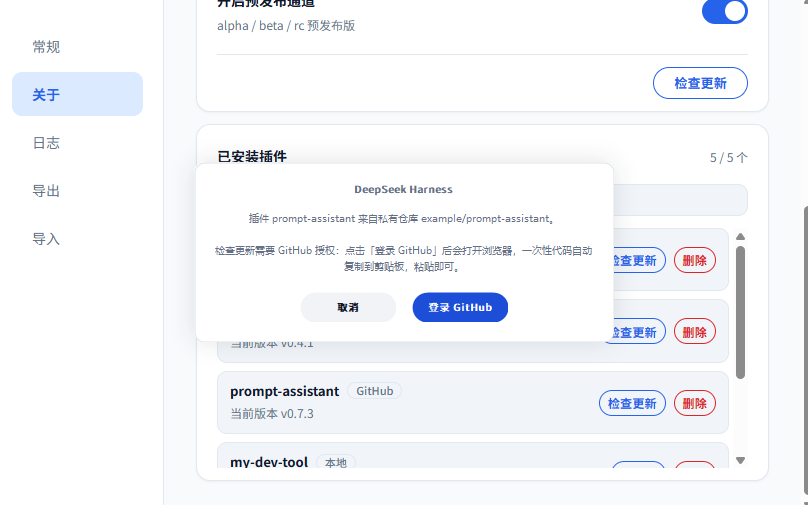
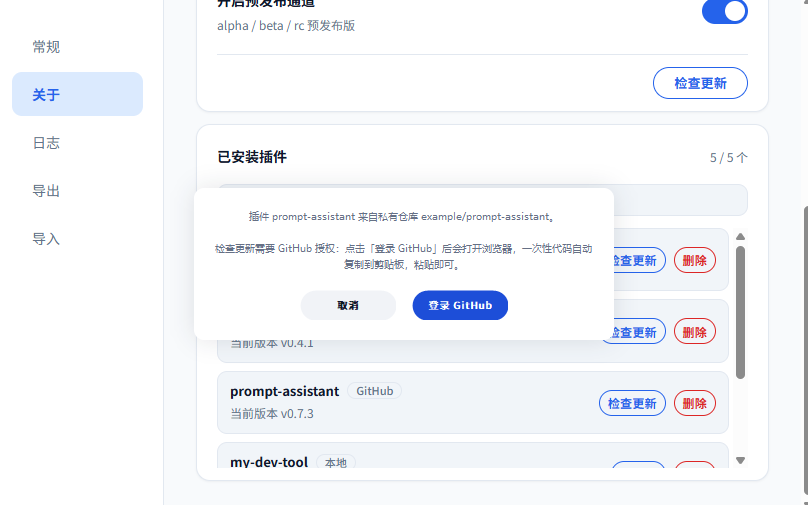
fix(docs/dialog): v0.9.2 重发 —— 应用内弹窗恢复系统标题栏，无边框只用于发版截图
- dialogs_windows.go 回退上一版的 A 方案：弹窗恢复 WS_CAPTION|WS_SYSMENU 原生外观
  （可拖动、可 Alt+F4 关闭），去掉自绘圆角卡片、CS_DROPSHADOW 与 DWM 扩展边框。
- capture_github_dialog.ps1 改为只取弹窗客户区（GetClientRect/ClientToScreen +
  PW_CLIENTONLY|PW_RENDERFULLCONTENT），系统标题栏与边框都不进图，再由
  compose_dialog_shot.py 贴成圆角卡片并绘制柔和阴影 ——「无边框」只存在于网站
  轮播图/README 物料里，应用内弹窗不受影响。
- 移除整窗截图遗留的 Get-BlackInset（客户区抓取后不再需要）。
- 重拍 docs/shots/github-auth.png 与 docs/shots-en/github-auth.png：卡片边缘为纯白
  （无描边），四周柔和阴影；卡片内容 = 弹窗客户区（正文 + 按钮）。
- RELEASE_NOTES 的 v0.9.2 区块同步改写：原「全部原生弹窗无边框化」的表述已不成立。

diff --git a/dialogs_windows.go b/dialogs_windows.go
@@ -31,8 +31,6 @@ const (
 	swShow                     = 5
 	wsCaption                  = 0x00C00000
 	wsSysMenu                  = 0x00080000
-	wsPopup                    = 0x80000000
-	csDropShadow               = 0x00020000
 	wsClipChildren             = 0x02000000
 	wsChild                    = 0x40000000
 	wsVisible                  = 0x10000000
@@ -69,8 +67,6 @@ const (
 	dlgBtnH   = 30
 	dlgBtnW   = 96 // 固定按钮宽度：容纳「登录 GitHub」等较长主操作文案（14px/600 下约 90px）
 	dlgBtnGap = 16
-	dlgTitleH = 20 // 卡片内标题行高度
-	dlgRadius = 10 // 卡片圆角半径（与网站轮播图的合成圆角一致）
 
 	dialogColorMsg   = 0x00857066 // #667085
 	dialogColorTxt   = 0x00281810 // #101828
@@ -124,7 +120,6 @@ var (
 	pGetTextMetrics        = modGdi32.NewProc("GetTextMetricsA")
 	pAddFontResourceExW    = modGdi32.NewProc("AddFontResourceExW")
 	pDwmSetWindowAttribute = modDwmapi.NewProc("DwmSetWindowAttribute")
-	pDwmExtendFrame        = modDwmapi.NewProc("DwmExtendFrameIntoClientArea")
 	// GDI+（抗锯齿绘图）
 	modGdiplus                = syscall.NewLazyDLL("gdiplus.dll")
 	gpStartup                 = modGdiplus.NewProc("GdiplusStartup")
@@ -227,9 +222,6 @@ type rect struct {
 	left, top, right, bottom int32
 }
 
-// margins 供 DwmExtendFrameIntoClientArea 使用（字段顺序与 Win32 MARGINS 一致）。
-type margins struct{ left, right, top, bottom int32 }
-
 type paintStruct struct {
 	hdc         uintptr
 	fErase      int32
@@ -272,7 +264,6 @@ var (
 	dialogGraySelBrush  uintptr
 	dialogMsgFont       uintptr
 	dialogBtnFont       uintptr
-	dialogTitleFont     uintptr
 	dialogBtnWidths     []int32 // 各按钮自适应宽度（createDialogWindow 使用）
 	dialogClassRegister bool
 )
@@ -485,20 +476,6 @@ func dialogWndProc(hwnd, uMsg, wParam, lParam uintptr) uintptr {
 		pSetBkMode.Call(wParam, bkOpaque)
 		h, _, _ := pGetStockObject.Call(whiteBrush)
 		return h
-	case wmPaint:
-		// 无边框卡片：白色圆角卡面 + 1px 浅描边。原标题栏（WS_CAPTION）已去除，
-		// 卡片观感与 README 主图 / 网站轮播图一致（圆角由 DWM 与截图合成共同保证）。
-		var ps paintStruct
-		hdc, _, _ := pBeginPaint.Call(hwnd, uintptr(unsafe.Pointer(&ps)))
-		if hdc != 0 {
-			var rc rect
-			pGetClientRect.Call(hwnd, uintptr(unsafe.Pointer(&rc)))
-			fillRoundedRectAA(hdc, rc, dlgRadius, colorRefToARGB(dialogColorBorder))
-			inner := rect{rc.left + 1, rc.top + 1, rc.right - 1, rc.bottom - 1}
-			fillRoundedRectAA(hdc, inner, dlgRadius-1, colorRefToARGB(colorWhite))
-			pEndPaint.Call(hwnd, uintptr(unsafe.Pointer(&ps)))
-		}
-		return 0
 	case wmDrawItem:
 		if lParam == 0 {
 			break
@@ -563,7 +540,6 @@ func runModernDialog(caption, message string, buttons []string, primary int) int
 	dialogResult = -1
 	dialogMsgFont = makeSystemFont(16, 400)
 	dialogBtnFont = makeFont(14, 600)
-	dialogTitleFont = makeFont(14, 600)
 	// 按钮按文案自适应宽度（下限 dlgBtnW）：固定宽度会把「登录 GitHub」（约 90px）/
 	// 「Sign in to GitHub」（约 135px，英文更宽）截断——中英双语都要完整可见。
 	dialogBtnWidths = make([]int32, len(buttons))
@@ -606,7 +582,7 @@ func createDialogWindow(caption, message string) uintptr {
 	if !dialogClassRegister {
 		wc := wndClassExW{
 			cbSize:        uint32(unsafe.Sizeof(wndClassExW{})),
-			style:         csHRedraw | csVRedraw | csDropShadow, // 无边框弹窗的系统投影兜底
+			style:         csHRedraw | csVRedraw,
 			lpfnWndProc:   cb,
 			hInstance:     moduleHandle(),
 			hCursor:       cur,
@@ -636,15 +612,13 @@ func createDialogWindow(caption, message string) uintptr {
 	}
 	// 高度余量：容纳 descender 与偶发多一行
 	msgH += 6
-	// 卡片内标题行（原标题栏承担的角色）+ 与消息之间的间距
-	titleY := int32(dlgPad)
-	msgY := titleY + dlgTitleH + 8
-	btnY := msgY + int32(msgH) + 12
+	btnY := int32(dlgPad) + int32(msgH) + 12
 	clientH := btnY + int32(dlgBtnH) + int32(dlgPad)
 
-	// 无边框窗口：窗口矩形即卡片矩形（不再按标题栏/边框做 AdjustWindowRectEx）
-	winW := clientW
-	winH := clientH
+	r := rect{0, 0, clientW, clientH}
+	pAdjustWindowRectEx.Call(uintptr(unsafe.Pointer(&r)), wsCaption|wsSysMenu, 0, 0)
+	winW := r.right - r.left
+	winH := r.bottom - r.top
 
 	sw, _, _ := pGetSystemMetrics.Call(smCX)
 	sh, _, _ := pGetSystemMetrics.Call(smCY)
@@ -656,7 +630,7 @@ func createDialogWindow(caption, message string) uintptr {
 		0,
 		uintptr(unsafe.Pointer(cls)),
 		uintptr(unsafe.Pointer(capPtr)),
-		wsPopup, // 无标题栏 / 无边框：卡片化自绘（需求 2）
+		wsCaption|wsSysMenu,
 		uintptr(x), uintptr(y), uintptr(winW), uintptr(winH),
 		0, 0, moduleHandle(), 0,
 	)
@@ -666,33 +640,16 @@ func createDialogWindow(caption, message string) uintptr {
 	dialogHwnd = hwnd
 	corner := uintptr(dwmcRound)
 	pDwmSetWindowAttribute.Call(hwnd, dwmcWindowCornerPreference, uintptr(unsafe.Pointer(&corner)), unsafe.Sizeof(corner))
-	// 四周窗口阴影：给无边框窗口扩展 1px 边框，DWM 据此按圆角形状绘制系统投影
-	//（CS_DROPSHADOW 为兜底；截图合成路径另由 scripts 侧补柔和阴影）。
-	m := margins{1, 1, 1, 1}
-	pDwmExtendFrame.Call(hwnd, uintptr(unsafe.Pointer(&m)))
-
-	// 标题行（原 WS_CAPTION 标题栏的文案，居中加粗）
-	staticCls, _ := syscall.UTF16PtrFromString("STATIC")
-	titPtr, _ := syscall.UTF16PtrFromString(caption)
-	if titHwnd, _, _ := pCreateWindowExW.Call(
-		0,
-		uintptr(unsafe.Pointer(staticCls)),
-		uintptr(unsafe.Pointer(titPtr)),
-		wsChild|wsVisible|ssCenter,
-		uintptr(dlgPad), uintptr(titleY), uintptr(innerW), uintptr(dlgTitleH),
-		hwnd, 199, moduleHandle(), 0,
-	); titHwnd != 0 {
-		pSendMessageW.Call(titHwnd, wmSetFont, dialogTitleFont, 1)
-	}
 
 	// 消息文本
+	staticCls, _ := syscall.UTF16PtrFromString("STATIC")
 	mt, _ := syscall.UTF16PtrFromString(message)
 	msgHwnd, _, _ := pCreateWindowExW.Call(
 		0,
 		uintptr(unsafe.Pointer(staticCls)),
 		uintptr(unsafe.Pointer(mt)),
 		wsChild|wsVisible|ssCenter,
-		uintptr(dlgPad), uintptr(msgY), uintptr(innerW), uintptr(msgH),
+		uintptr(dlgPad), uintptr(dlgPad), uintptr(innerW), uintptr(msgH),
 		hwnd, 200, moduleHandle(), 0,
 	)
 	if msgHwnd != 0 {

diff --git a/docs/RELEASE_NOTES.md b/docs/RELEASE_NOTES.md
@@ -6,7 +6,7 @@
 
 ## v0.9.2
 
-自 v0.9.1 起（修复「harness 更新完成后更新窗口偶现不退出」+ 原生弹窗无边框卡片化）：
+自 v0.9.1 起（修复「harness 更新完成后更新窗口偶现不退出」+ 授权弹窗发版物料改为无边框卡片）：
 
 ### 修复
 
@@ -18,8 +18,8 @@
 
 ### 变更
 
-- **原生弹窗改为无边框圆角卡片 + 四周阴影**（Windows）：更新确认、GitHub 授权确认、停止服务询问、各类结果提示等全部自绘弹窗，由带标题栏的窗口改为无边框卡片——自绘白色圆角卡面 + 1px 浅描边，原标题文案移入卡片内标题行，并通过窗口类投影 + DWM 扩展边框取得系统阴影，观感与网站/README 主图的卡片一致。
-- **网站轮播图（GitHub 授权弹窗）改用合成阴影重拍**：弹窗截图改为「PrintWindow 合成 + 圆角卡片/柔和阴影绘制」，出图不再依赖桌面是否可访问（锁屏环境同样能出图），中英两张图的圆角与阴影完全一致；截图脚本「窗口是否绘制完成」的判定改为更密的取色采样并加重试，失败路径也会清理残留进程，避免影响下一次运行。
+- **应用内弹窗保持 Windows 原生外观**：「更新确认」「GitHub 授权确认」「停止服务询问」「服务已就绪，是否打开 Web UI」等自绘弹窗继续使用系统标题栏（可拖动、可 Alt+F4 关闭），不改为无边框窗口——无边框化只作用于发版物料，见下条。
+- **网站轮播图（GitHub 授权弹窗）改为无边框卡片 + 四周柔和阴影**：截图时只取弹窗的**客户区**（系统标题栏与边框都不进图），再按圆角贴到设置窗口上并绘制高斯柔和阴影——观感与 README 主图一致；出图与桌面是否可访问无关（锁屏环境同样能出图），中英两张的圆角与阴影完全一致。截图脚本另加固两处：「窗口是否绘制完成」的判定改为更密的取色采样并加重试（原阈值在浅色页面上会误判为空白），失败路径也会清理残留进程，避免影响下一次运行。
 
 ## v0.9.1
 
